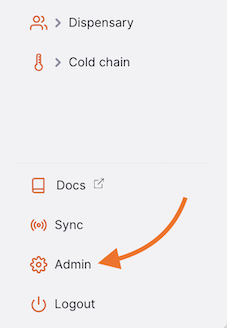
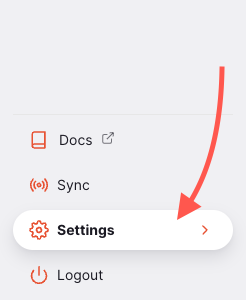
Admin -> settings

diff --git a/content/docs/administration/display.md b/content/docs/administration/display.md
@@ -19,7 +19,7 @@ Let's explore what's possible...
 
 ## Viewing the display settings
 
-To view the display settings, go to `Admin` in the lower section of the navigation panel: 
+To view the display settings, go to `Settings` in the lower section of the navigation panel:
 
 ![Location: nav](/docs/administration/images/admin_nav.png)
 
@@ -43,11 +43,11 @@ It is possible to use a custom logo for the site. This shows in the left navigat
 
 ![Custom logo login](/docs/administration/images/custom_logo_nav.png)
 
-The logo will need to be in the `svg` format. To update, simply 
+The logo will need to be in the `svg` format. To update, simply
 
-* enable the custom logo by clicking the toggle switch
-* copy the text of the .svg file and paste it into the text area
-* click save
+- enable the custom logo by clicking the toggle switch
+- copy the text of the .svg file and paste it into the text area
+- click save
 
 ![Edit custom logo](/docs/administration/images/edit_logo.png)
 
@@ -55,9 +55,8 @@ The logo will need to be in the `svg` format. To update, simply
 
 You can also configure a custom look for your site by using a custom theme. To do this:
 
-* enable the custom theme by clicking the toggle switch
-* you'll see a sample of the current theme in the text area - this shows you what can be updated
-* edit the theme and click save to view the results
+- enable the custom theme by clicking the toggle switch
+- you'll see a sample of the current theme in the text area - this shows you what can be updated
+- edit the theme and click save to view the results
 
 ![Edit custom logo](/docs/administration/images/edit_theme.png)
-

diff --git a/content/docs/administration/support.md b/content/docs/administration/support.md
@@ -15,10 +15,9 @@ top = false
 
 The support section provides some tools for troubleshooting and supporting an Open mSupply installation.
 
-
 ## Viewing the server log
 
-To view the server log, go to `Admin` in the lower section of the navigation panel: 
+To view the server log, go to `Settings` in the lower section of the navigation panel:
 
 ![Admin: nav](/docs/administration/images/admin_nav.png)
 
@@ -47,6 +46,7 @@ logging:
   max_file_count: 10
   max_file_size: 1
 ```
+
 After selecting a log file to view, the contents of the log is loaded. This make take a little time if the log is a large one!
 
 ![Support: select log](/docs/administration/images/support_log_loading.png)

diff --git a/content/docs/administration/devices.md b/content/docs/administration/devices.md
@@ -17,11 +17,11 @@ The devices settings section allows you to configure devices that you may have c
 
 ## Viewing the display settings
 
-To view the display settings, go to `Admin` in the lower section of the navigation panel: 
+To view the display settings, go to `Settings` in the lower section of the navigation panel:
 
 ![Admin: nav](/docs/administration/images/admin_nav.png)
 
-You will see the list of admin sections:
+You will see the list of settings sections:
 
 ![Admin: collapsed](/docs/administration/images/admin_collapsed.png)
 

diff --git a/content/docs/administration/synchronisation.md b/content/docs/administration/synchronisation.md
@@ -16,7 +16,7 @@ top = false
 
 ## Viewing the synchronisation settings
 
-To view the synchronisation settings, go to `Admin` in the lower section of the navigation panel: 
+To view the synchronisation settings, go to `Settings` in the lower section of the navigation panel:
 
 ![admin: nav](/docs/administration/images/admin_nav.png)
 

diff --git a/content/docs/administration/_index.md b/content/docs/administration/_index.md
@@ -1,5 +1,5 @@
 +++
-title = "Administration"
+title = "Settings"
 description = "Configuration and system settings."
 date = 2025-05-01T18:00:00+00:00
 updated = 2021-05-01T18:00:00+00:00
